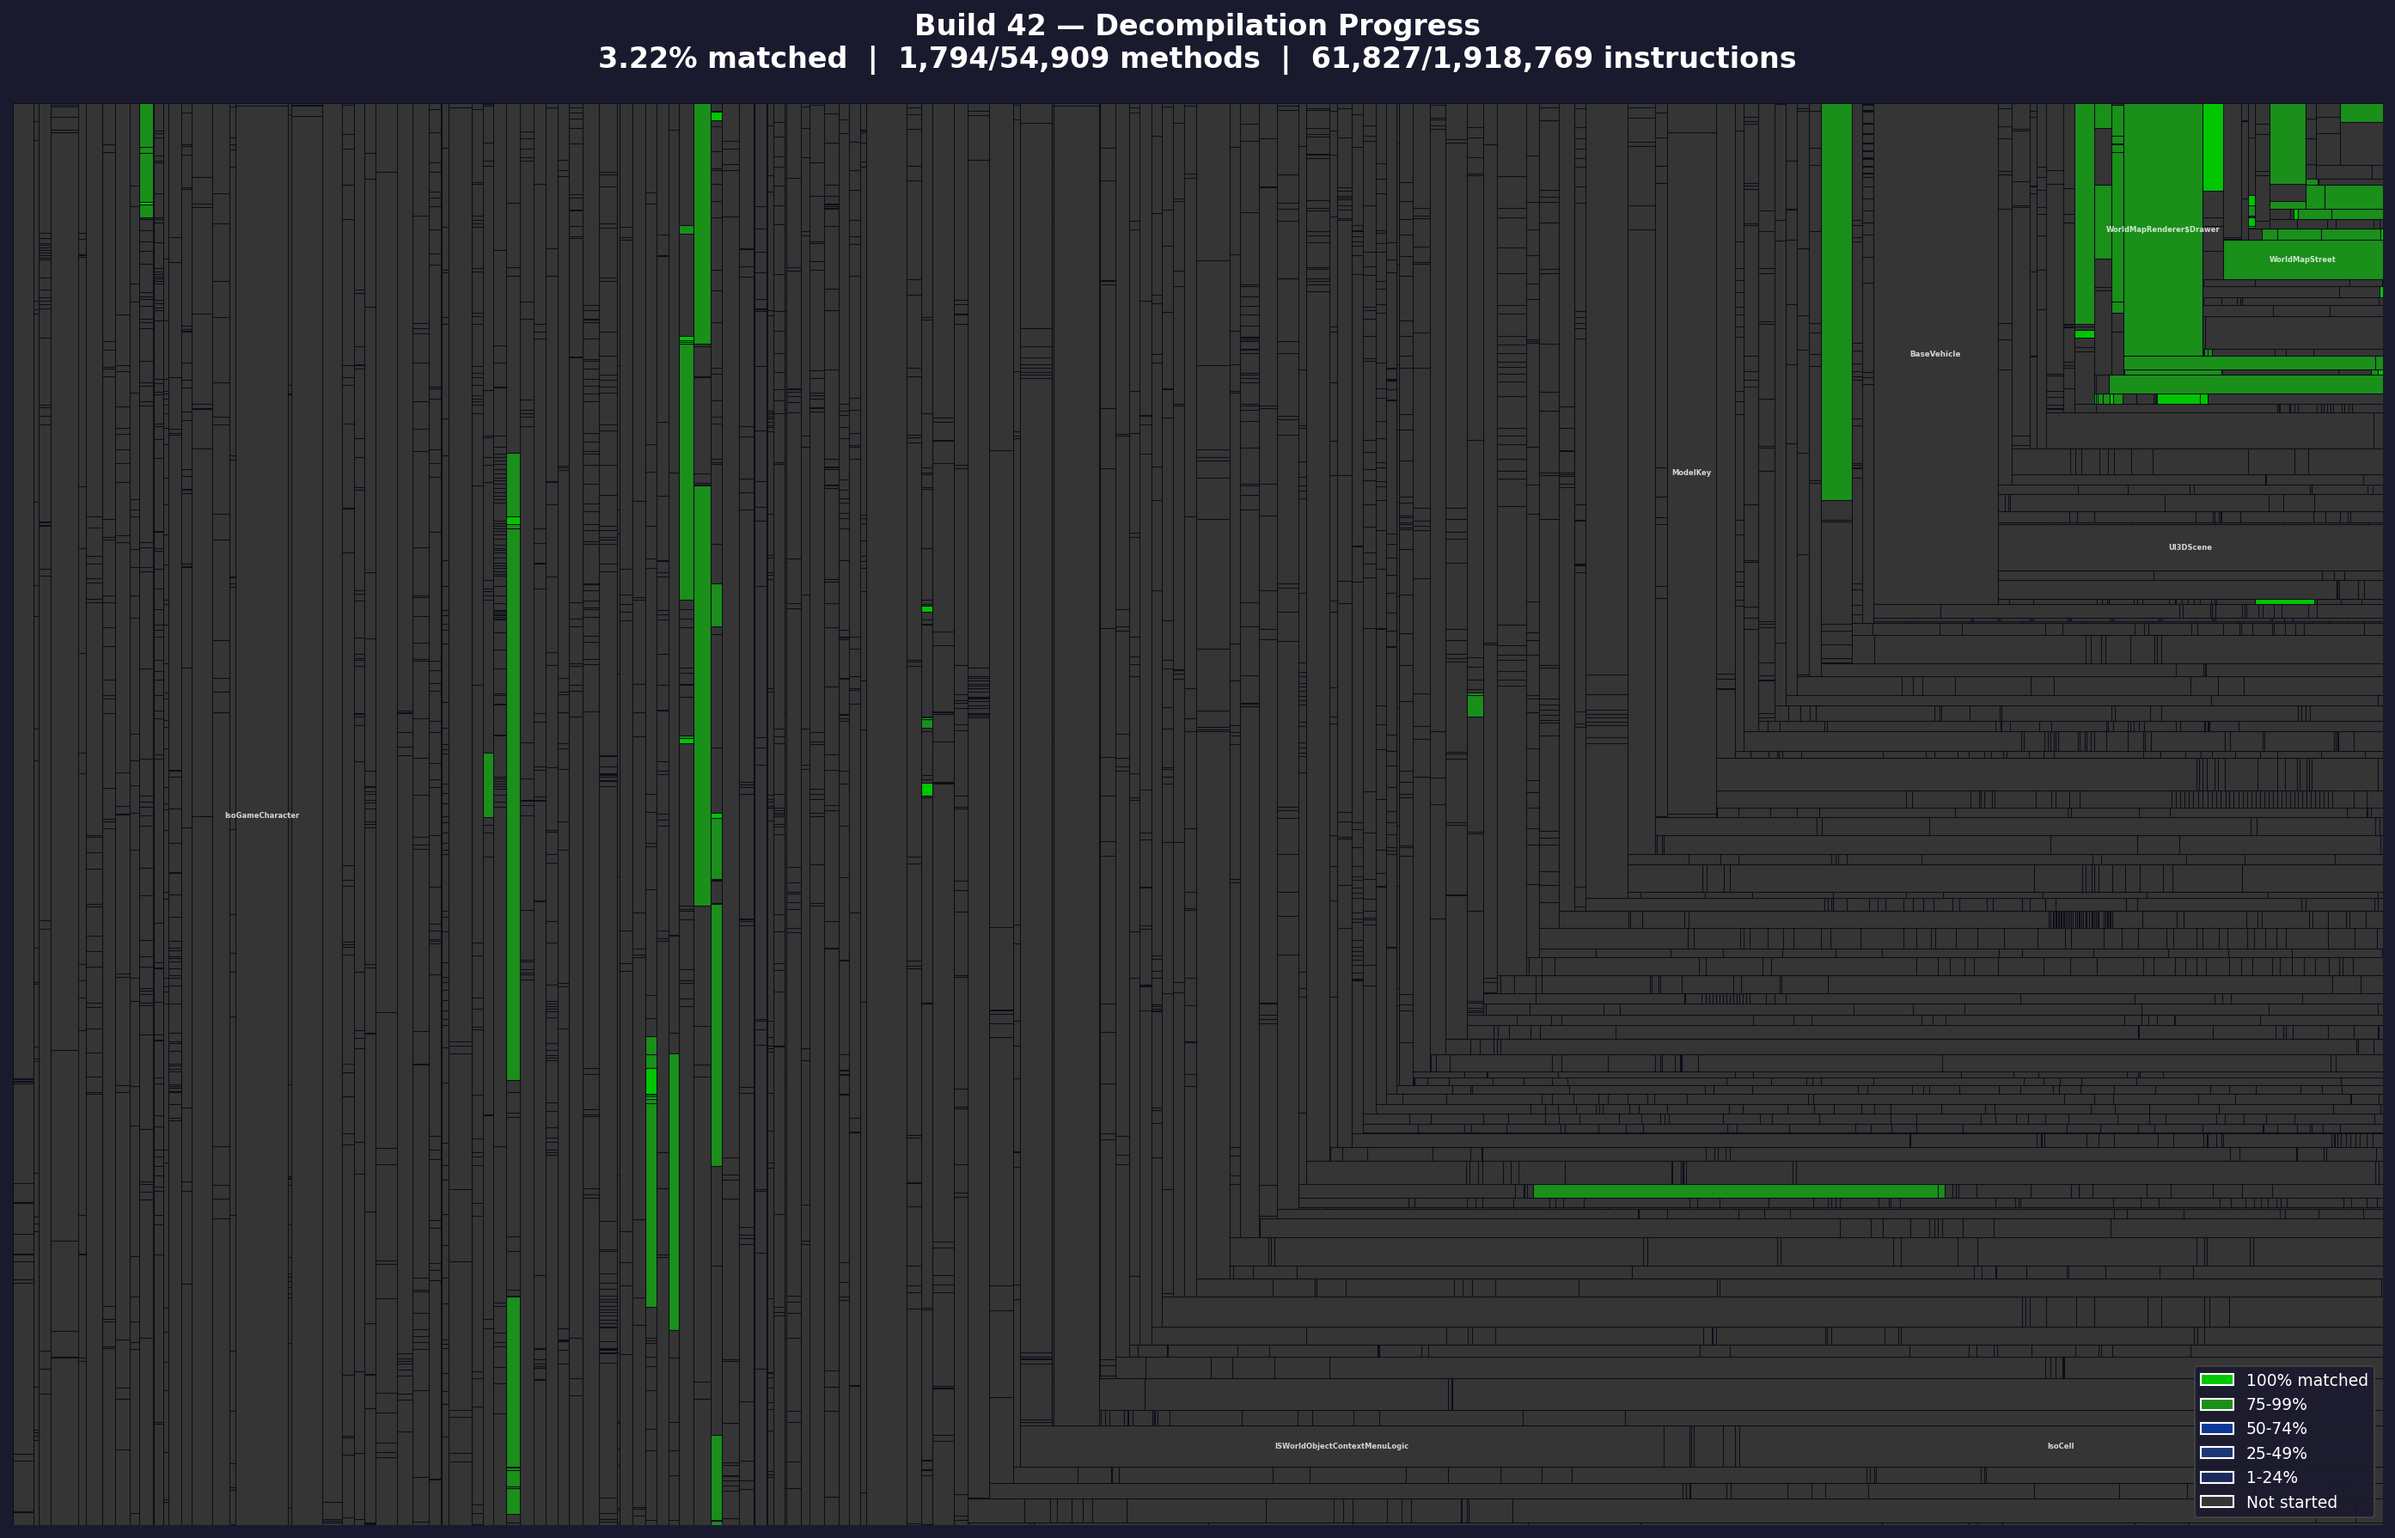
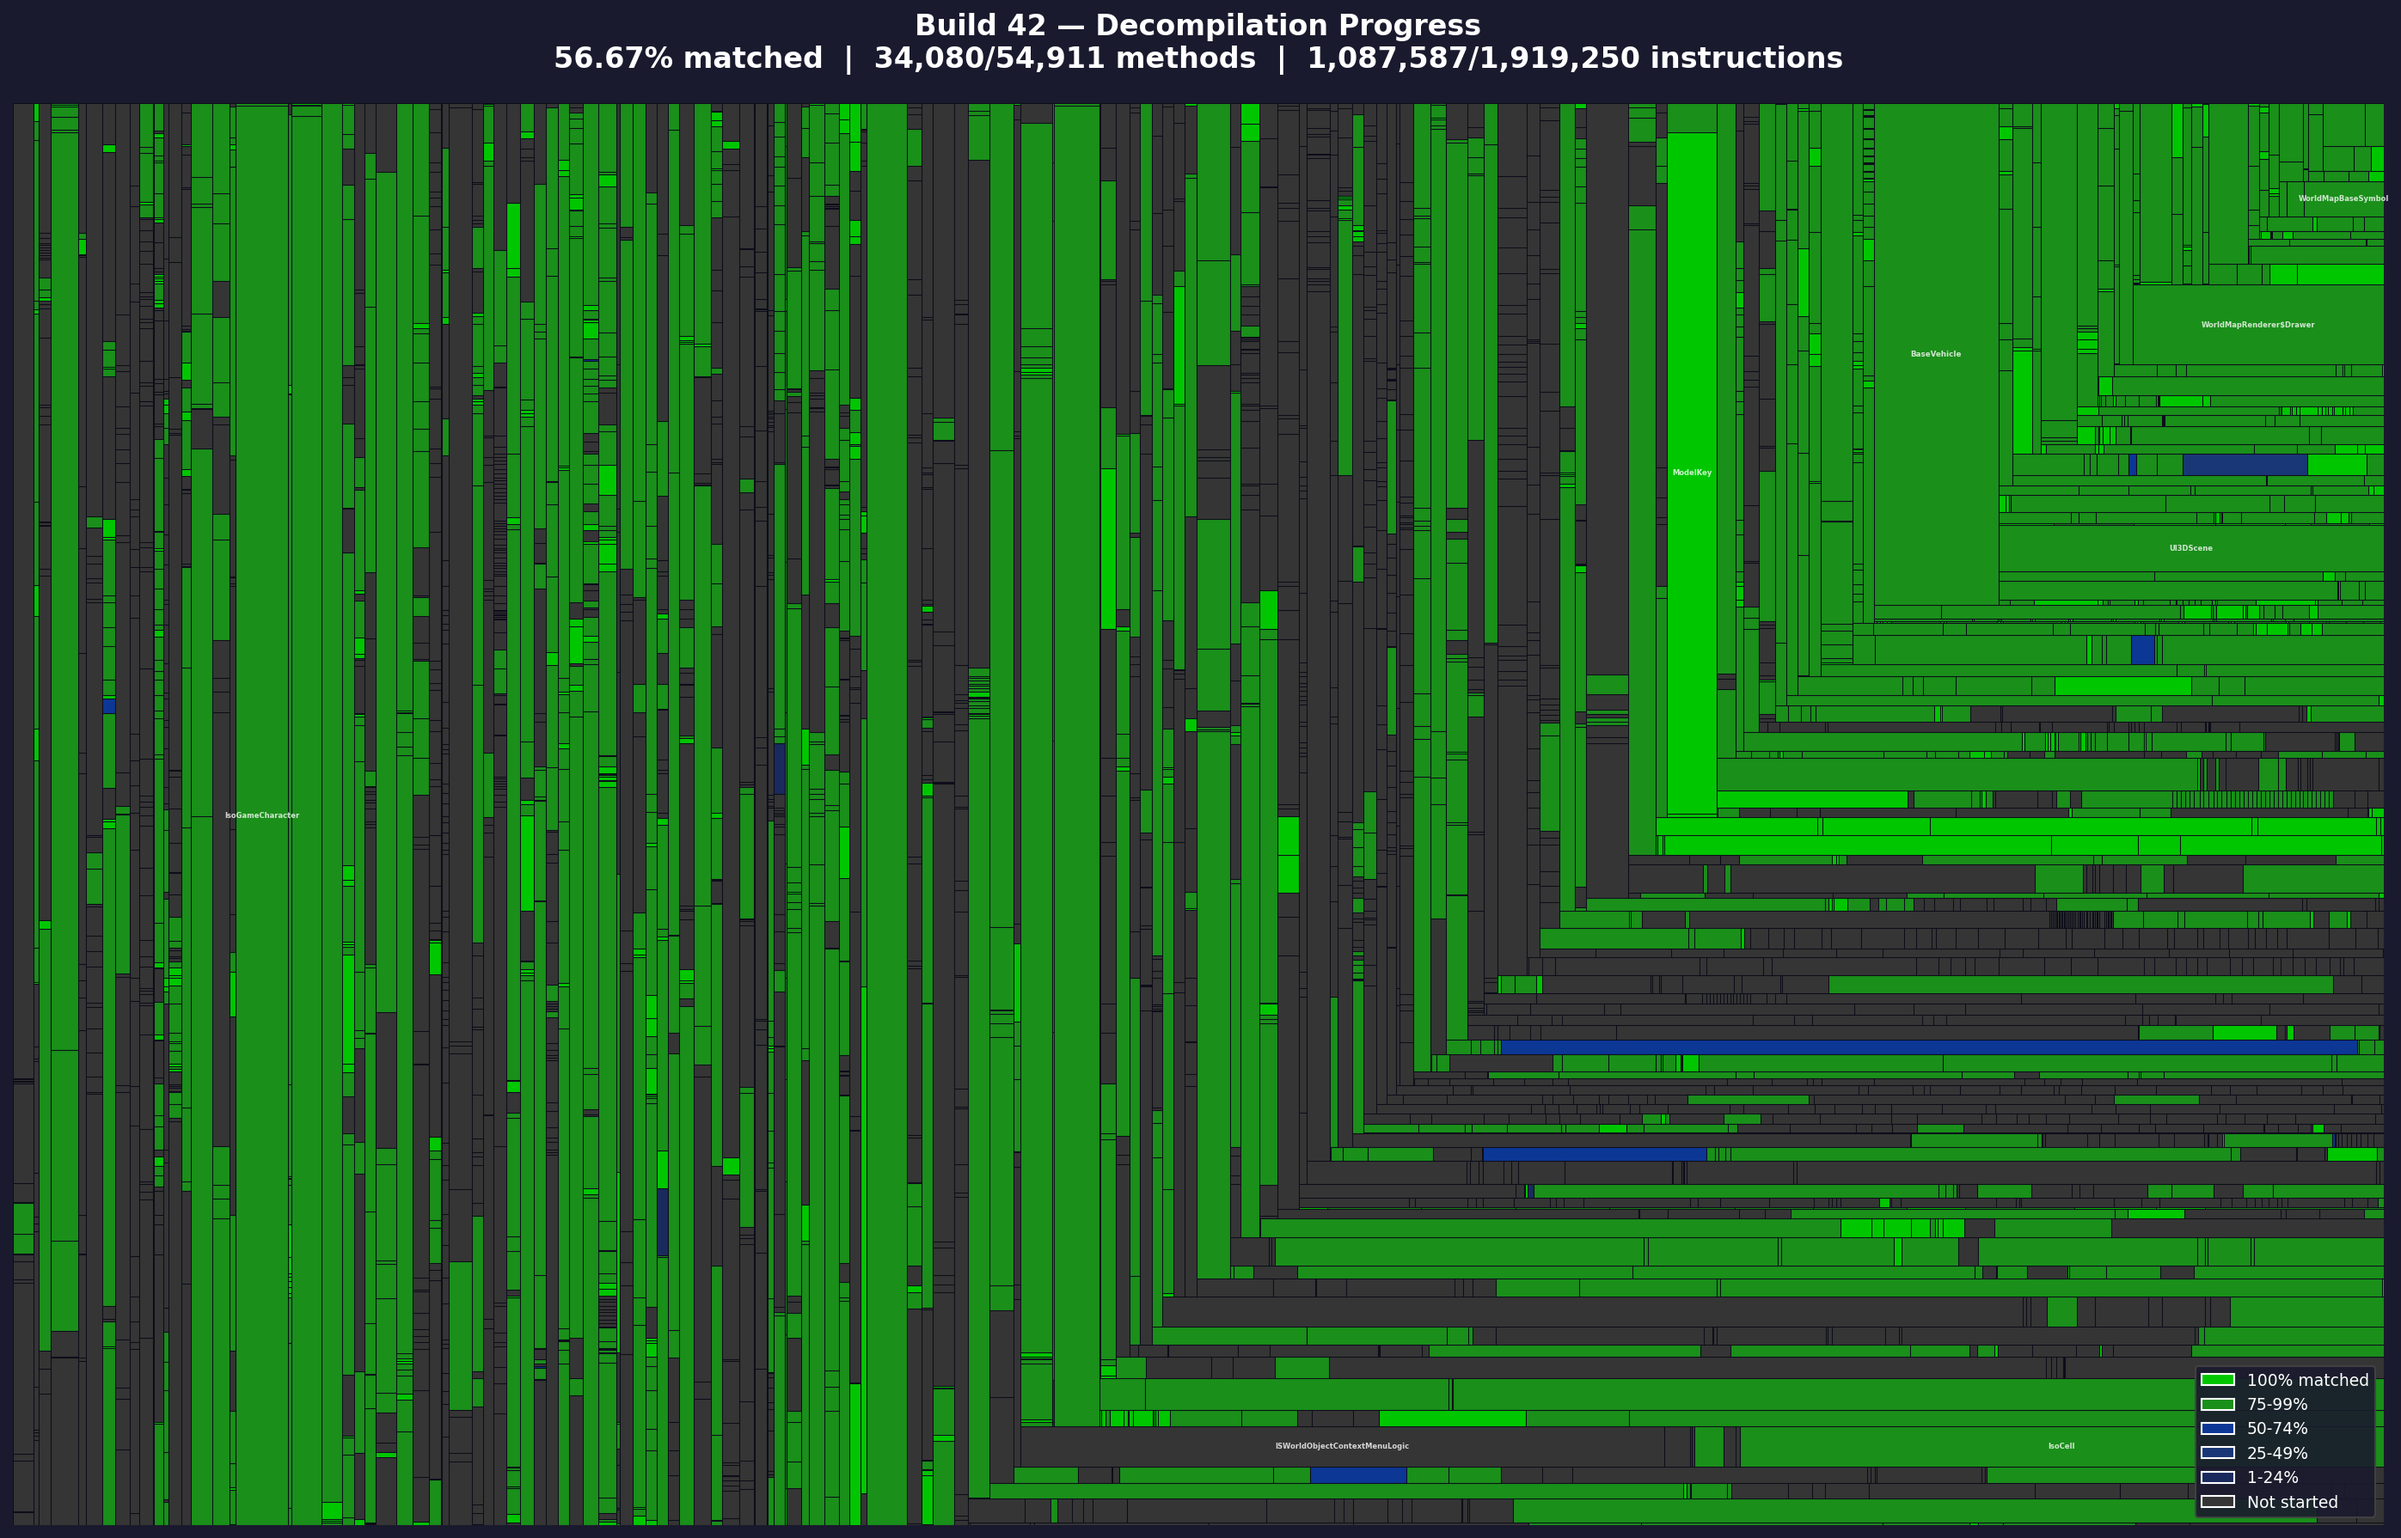
feat: fix UI3DScene transform/rotation redecl, CloneNotSupportedException, switch default
- Fix Matrix4f transform occurrence (1 not 2), add Quaternionf rotation fix
- Widen CloneNotSupportedException catch to Exception (unreachable catch)
- Add default branch to switch expressions missing coverage
- Remove dead fixB42UI3DSceneVars method
- b42: 132 -> 4 errors, 2350 classes, 56.67% bytecode matched (was 0.47%)

diff --git a/src/main/java/com/github/zomboiddecompiler/PostDecompileTransforms.java b/src/main/java/com/github/zomboiddecompiler/PostDecompileTransforms.java
@@ -2777,6 +2777,17 @@ public final class PostDecompileTransforms {
         // ================================================================
         content = fixB42FileSpecificErrors(content);
 
+        // Switch expressions missing default branch
+        content = content.replaceAll(
+                "(case \\w+ -> [^;]+;\\s*\\n)(\\s*\\} \\*)",
+                "$1            default -> throw new IllegalStateException();\n$2");
+
+        // Unreachable catch: CloneNotSupportedException never thrown by super.clone()
+        // when the class implements Cloneable. Widen to Exception.
+        content = content.replace(
+                "catch (CloneNotSupportedException",
+                "catch (Exception");
+
         return content;
     }
 
@@ -3509,6 +3520,11 @@ public final class PostDecompileTransforms {
                     "Matrix4f transform = sceneModel.getGlobalTransform(allocMatrix4f());",
                     "transform = sceneModel.getGlobalTransform(allocMatrix4f());",
                     1);
+            // fromLua3: Quaternionf rotation redeclared — identical string at lines 1585 and 1628
+            content = fixB42RemoveRedeclType(content,
+                    "Quaternionf rotation = transform.getUnnormalizedRotation(allocQuaternionf());",
+                    "rotation = transform.getUnnormalizedRotation(allocQuaternionf());",
+                    2);
 
             // fromLua3: sceneModel instanceof pattern at line 1655 conflicts with
             // SceneModel sceneModel declaration at line 1611.
